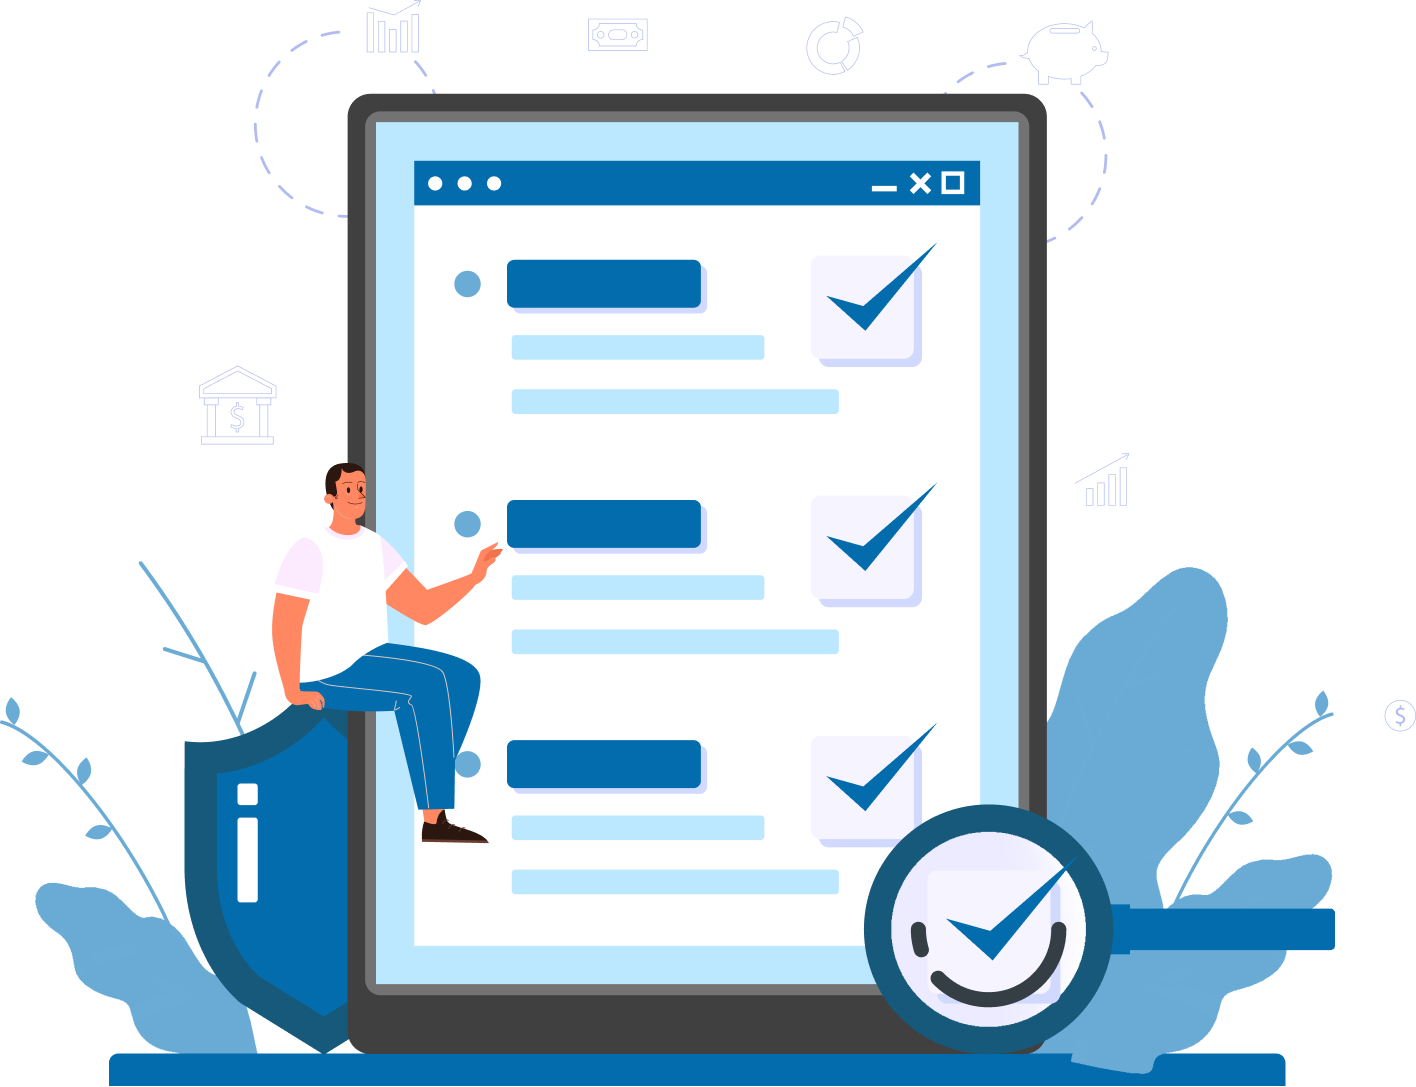
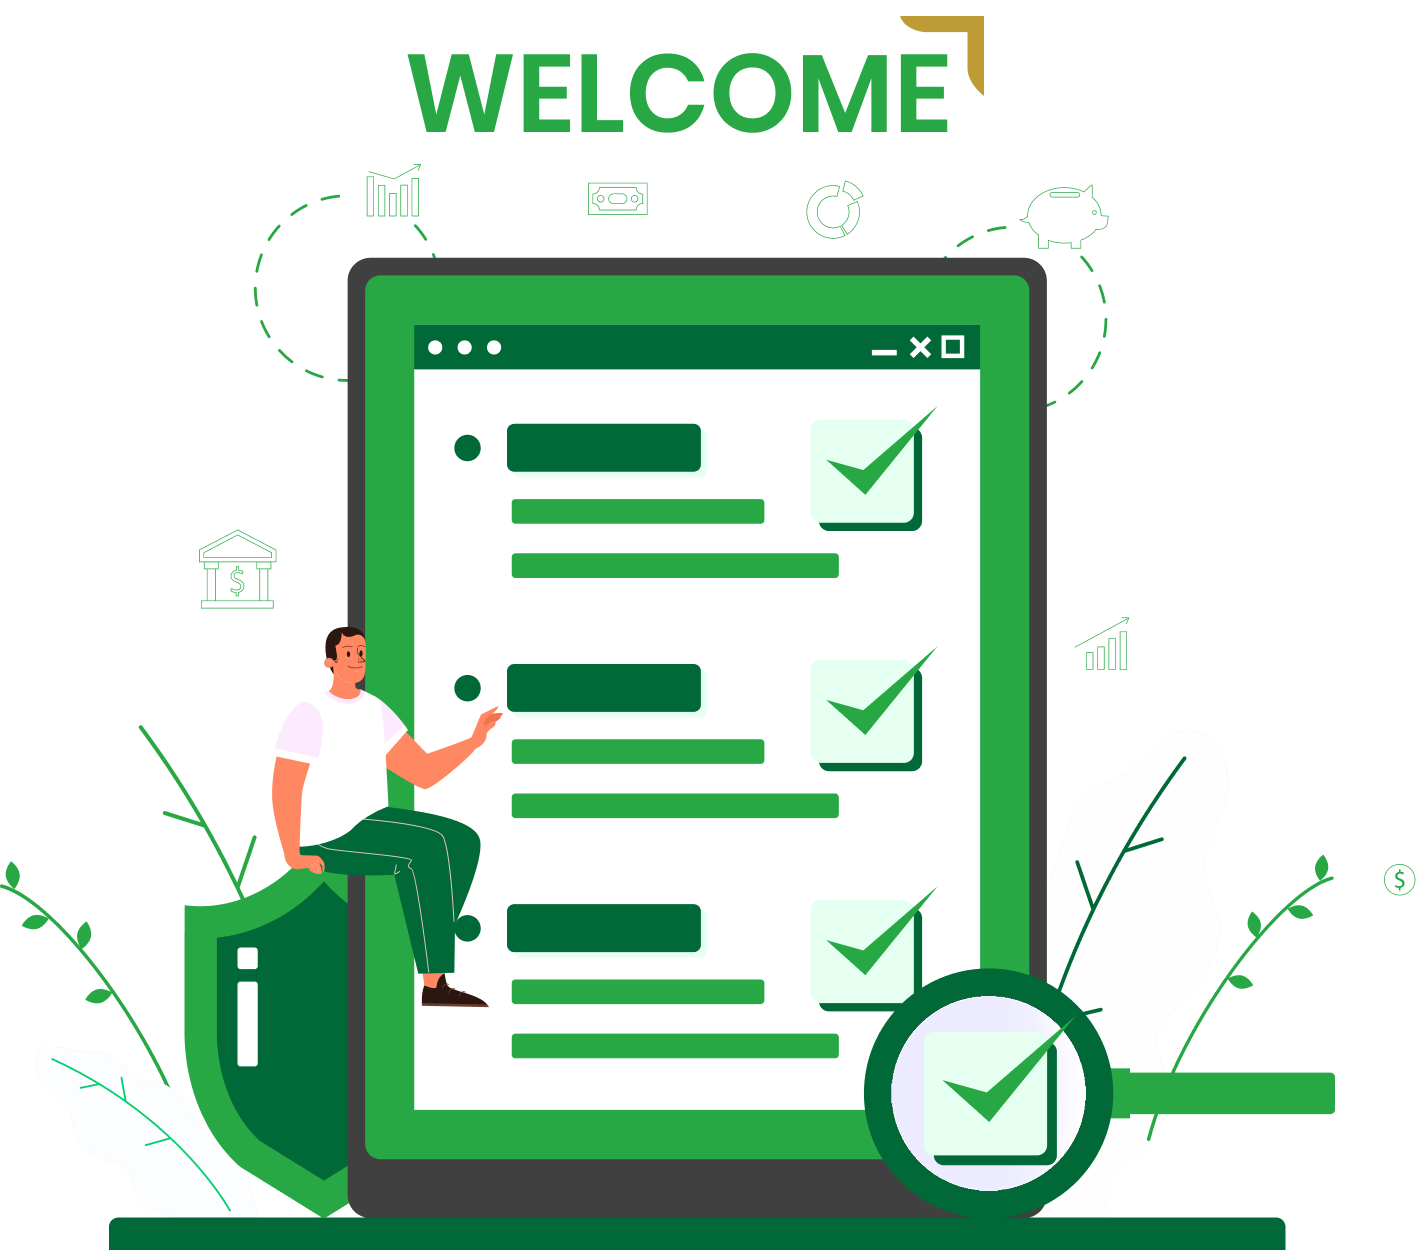
fix: theme change

diff --git a/lib/features/home/home_screen.dart b/lib/features/home/home_screen.dart
@@ -15,7 +15,12 @@ class HomeScreen extends StatelessWidget {
         children: [
           Expanded(
             child: Container(
-              color: Color.fromRGBO(3, 108, 173, 1),
+              decoration: BoxDecoration(
+                  gradient: LinearGradient(colors: [
+                    Color.fromRGBO(2, 206, 109, 1),
+                    Color.fromRGBO(1, 103, 54, 1),
+                  ])
+              ),
               child: Center(
                 child: SvgPicture.asset(
                   'assets/images/im_icon.svg',
@@ -26,47 +31,44 @@ class HomeScreen extends StatelessWidget {
             ),
           ),
           Expanded(
-            child: SafeArea(
-              child: Container(
-                color: Colors.white,
-                child: Column(
-                  crossAxisAlignment: CrossAxisAlignment.center,
-                  mainAxisAlignment: MainAxisAlignment.center,
-                  children: [
-                    SvgPicture.asset('assets/images/ic_welcome.svg'),
-                    Image.asset('assets/images/ic_home_image.png', width: 300),
-                    const SizedBox(height: 30),
-                    InkWell(
-                      onTap: () {
-                        Get.toNamed(multiCameraRoute);
-                      },
-                      child: SizedBox(
-                        height: 65,
-                        width: 250,
-                        child: Stack(
-                          children: [
-                            SvgPicture.asset(
-                              'assets/images/ic_button.svg',
-                              height: 65,
-                              width: 250,
-                            ),
-                            Align(
-                              alignment: Alignment.center,
-                              child: Text(
-                                'Scan Invoice',
-                                style: TextStyle(
-                                  fontSize: 27,
-                                  fontWeight: FontWeight.w500,
-                                  color: Colors.white,
-                                ),
+            child: Container(
+              color: Colors.white,
+              child: Column(
+                crossAxisAlignment: CrossAxisAlignment.center,
+                mainAxisAlignment: MainAxisAlignment.center,
+                children: [
+                  Image.asset('assets/images/ic_home_image.png', width: 300),
+                  const SizedBox(height: 30),
+                  InkWell(
+                    onTap: () {
+                      Get.toNamed(multiCameraRoute);
+                    },
+                    child: SizedBox(
+                      height: 50,
+                      width: 250,
+                      child: Stack(
+                        children: [
+                          SvgPicture.asset(
+                            'assets/images/ic_button.svg',
+                            height: 50,
+                            width: 250,
+                          ),
+                          Align(
+                            alignment: Alignment.center,
+                            child: Text(
+                              'Scan Invoice',
+                              style: TextStyle(
+                                fontSize: 16,
+                                fontWeight: FontWeight.w500,
+                                color: Colors.white,
                               ),
                             ),
-                          ],
-                        ),
+                          ),
+                        ],
                       ),
                     ),
-                  ],
-                ),
+                  ),
+                ],
               ),
             ),
           ),

diff --git a/lib/features/invoice/invoice_screen.dart b/lib/features/invoice/invoice_screen.dart
@@ -130,13 +130,13 @@ class InvoiceScreen extends StatelessWidget {
                                 }
                               },
                               child: SizedBox(
-                                height: 65,
+                                height: 55,
                                 width: 250,
                                 child: Stack(
                                   children: [
                                     SvgPicture.asset(
                                       'assets/images/ic_button.svg',
-                                      height: 65,
+                                      height: 55,
                                       width: 250,
                                     ),
                                     Align(
@@ -144,7 +144,7 @@ class InvoiceScreen extends StatelessWidget {
                                       child: Text(
                                         'Finish',
                                         style: TextStyle(
-                                          fontSize: 27,
+                                          fontSize: 16,
                                           fontWeight: FontWeight.w500,
                                           color: Colors.white,
                                         ),
@@ -172,13 +172,13 @@ class InvoiceScreen extends StatelessWidget {
                                 }
                               },
                               child: SizedBox(
-                                height: 65,
+                                height: 55,
                                 width: 250,
                                 child: Stack(
                                   children: [
                                     SvgPicture.asset(
-                                      'assets/images/ic_button.svg',
-                                      height: 65,
+                                      'assets/images/ic_button_blue.svg',
+                                      height: 55,
                                       width: 250,
                                     ),
                                     Align(
@@ -186,7 +186,7 @@ class InvoiceScreen extends StatelessWidget {
                                       child: Text(
                                         'Finish & New',
                                         style: TextStyle(
-                                          fontSize: 27,
+                                          fontSize: 16,
                                           fontWeight: FontWeight.w500,
                                           color: Colors.white,
                                         ),

diff --git a/lib/features/splash/splash_screen.dart b/lib/features/splash/splash_screen.dart
@@ -27,36 +27,43 @@ class _SplashScreenState extends State<SplashScreen> {
   @override
   Widget build(BuildContext context) {
     return Scaffold(
-      backgroundColor: Color.fromRGBO(3, 108, 173, 1),
-      body: SafeArea(
-        child: Stack(
-          children: [
-            Center(
-              child: SvgPicture.asset(
-                'assets/images/im_icon.svg',
-                width: 307,
-                height: 97,
+      body: Container(
+        decoration: BoxDecoration(
+            gradient: LinearGradient(colors: [
+              Color.fromRGBO(2, 206, 109, 1),
+              Color.fromRGBO(1, 103, 54, 1),
+            ])
+        ),
+        child: SafeArea(
+          child: Stack(
+            children: [
+              Center(
+                child: SvgPicture.asset(
+                  'assets/images/im_icon.svg',
+                  width: 307,
+                  height: 97,
+                ),
               ),
-            ),
-            Align(
-              alignment: Alignment.bottomCenter,
-              child: Column(
-                mainAxisAlignment: MainAxisAlignment.end,
-                children: [
-                  Text('Powered by', style: TextStyle(
-                    fontSize: 16,
-                    fontWeight: FontWeight.w400,
-                    color: Colors.white
-                  ),),
-                  Text('Zerosnap ID Solutions Pvt. Ltd.', style: TextStyle(
-                      fontSize: 16,
-                      fontWeight: FontWeight.w400,
-                      color: Colors.white
-                  )),
-                ],
-              ),
-            )
-          ],
+              Align(
+                alignment: Alignment.bottomCenter,
+                child: Column(
+                  mainAxisAlignment: MainAxisAlignment.end,
+                  children: [
+                    Text('Powered by', style: TextStyle(
+                        fontSize: 16,
+                        fontWeight: FontWeight.w400,
+                        color: Colors.white
+                    ),),
+                    Text('Zerosnap ID Solutions Pvt. Ltd.', style: TextStyle(
+                        fontSize: 16,
+                        fontWeight: FontWeight.w400,
+                        color: Colors.white
+                    )),
+                  ],
+                ),
+              )
+            ],
+          ),
         ),
       ),
     );

diff --git a/lib/features/home/home_binding.dart b/lib/features/home/home_binding.dart
@@ -1,9 +1,11 @@
 import 'package:get/get.dart';
+import 'package:invoice/features/history/history_controller.dart';
 import 'package:invoice/features/home/home_controller.dart';
 
 class HomeBinding extends Bindings {
   @override
   void dependencies() {
     Get.lazyPut(() => HomeController());
+    Get.lazyPut(() => HistoryController());
   }
 }

diff --git a/lib/main.dart b/lib/main.dart
@@ -8,7 +8,6 @@ import 'features/history/history_controller.dart';
 
 void main() {
   runApp(const MyApp());
-  Get.lazyPut(() => HistoryController(),);
   storage.initStorage.then((value) {
     if(value) {
       storage.write('AK', 'AKIARVO6ZMZNSLP5T6D5');
